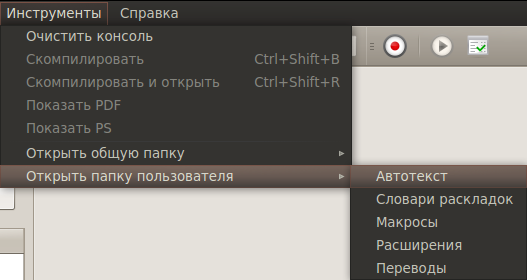
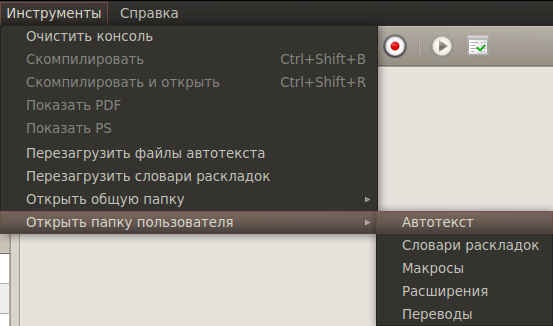
2012.09.28-10:22

Changed region(s): [[0.0, 0.0, 1.0, 1.0]]

diff --git a/res/help/ru/2.1-editing.html b/res/help/ru/2.1-editing.html
@@ -45,9 +45,12 @@
 <a name="img_menu_tools_open_user_dir"><img src="ico/menu_tools_open_user_dir.png" /></a>
 <br>
 <br>
-Папка будет открыта в вашем файловом менеджере. Создайте в ней файл (желательно выбирать осмысленное имя, оно будет
-использовано в названии вставляемого текста) и поместите в него желаемый текст.
-Сохраните файл и перезапустите TeX Creator. <i>Важно</i>: файл должен быть сохранен в кодировке Юникод (UTF-8).
+Папка будет открыта в вашем файловом менеджере. Создайте в ней файл и поместите в него желаемый текст.
+Желательно выбирать осмысленное имя, оно будет использовано в названии вставляемого текста.
+Кроме того, файл обязательно должен иметь расширение <i>.txt</i>.
+<br>
+Сохраните файл. <i>Важно</i>: файл должен быть сохранен в кодировке Юникод (UTF-8). Выберите в меню <i>Инструменты</i>
+пункт <i>Перезагрузить файлы автотекста</i>.
 <br>
 Теперь текст можно вставить в документ, выбрав его из списка в меню <i>Вставить автотекст</i>:
 <br>
@@ -96,8 +99,9 @@ TeX Creator позволяет быстро решить это недоразу
 <br>
 Файл словаря раскладок должен иметь расширение <i>.klm</i> (<b>k</b>eyboard <b>l</b>ayout <b>m</b>ap)
 и кодировку Юникод (UTF-8). Файл необходимо поместить в общую или пользовательскую папку <i>Словари раскладок</i>
-(см. <a href="#img_menu_tools_open_user_dir">Открыть папку</a>), после чего требуется перезапустить приложение
-и выбрать нужный словарь раскладок в <a href="1.1-settings.html#keyboard_layout_map">настройках</a>.
+(см. <a href="#img_menu_tools_open_user_dir">Открыть папку</a>), после чего нужно воспользоваться пунктом
+<i>Перезагрузить словари раскладок</i> меню <i>Инструменты</i> и выбрать нужный словарь раскладок в
+<a href="1.1-settings.html#keyboard_layout_map">настройках</a>.
 <br>
 Чтобы использовать переключение раскладок, нужно выделить текст и выбрать пункт <i>Переключить раскладку</i> меню
 <i>Правка</i>, либо воспользоваться сочетанием клавиш <i>Ctrl+L</i>.
